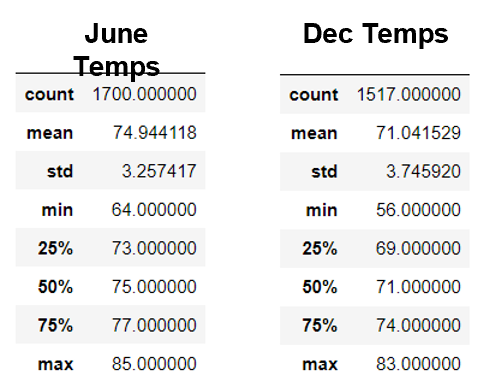
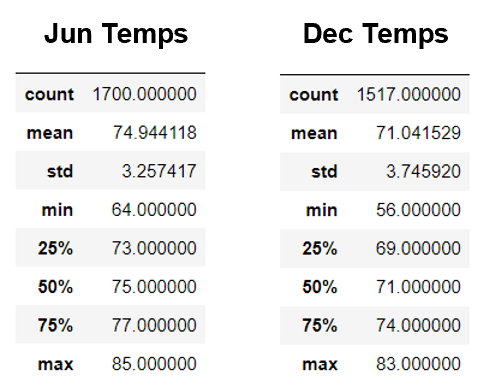
Completed Mod 9 Challenge

Changed region(s): [[0.0913, 0.062, 0.3955, 0.2171]]

diff --git a/README.md b/README.md
@@ -8,9 +8,7 @@ The purpose of this analysis is to provide temperature data for the months of Ju
 
 Here are the summary statistics for temperature data from June (2010 - 2017) and December (2010 - 2016).
 
-![June_Temps](https://github.com/mshideler/surfs_up/blob/main/Resources/june_temps.png)
-
-![Dec_Temps](https://github.com/mshideler/surfs_up/blob/main/Resources/dec_temps.png)
+![temp_stats](https://github.com/mshideler/surfs_up/blob/main/Resources/temp_stats.png)
 
 - Data collection stopped after 8/23/2017, so that's why there is a significant difference in the count between the two tables.  Ideally they should have the same amount of data for a better comparison; however, that is beyond our control.
 
